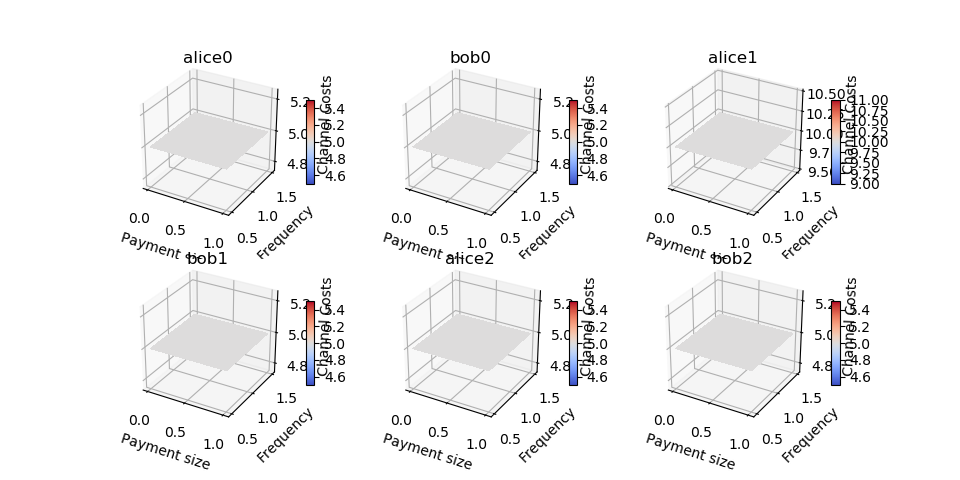
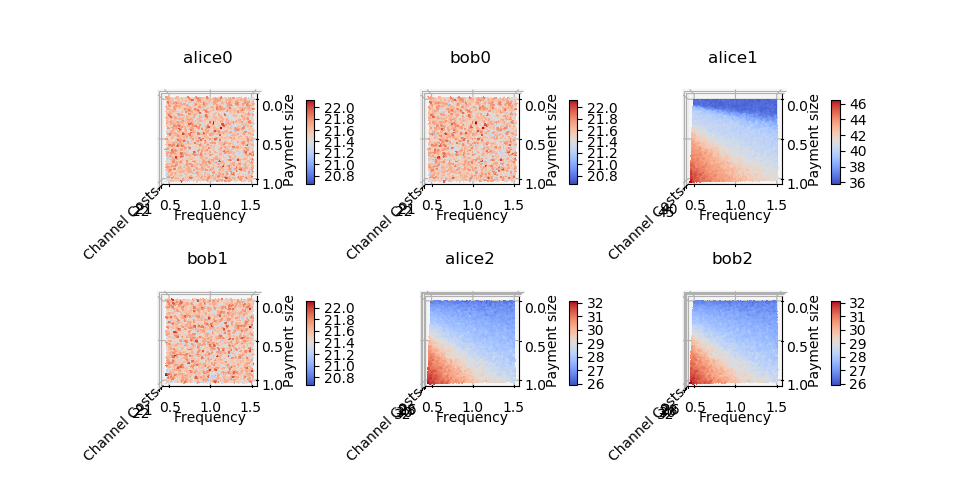
freq not fixed. 3d graph trying different params

diff --git a/3DonPF.py b/3DonPF.py
@@ -90,7 +90,7 @@ def transform(points):
 
 num_trial = 10
 
-time = 2
+time = 50
 
 givenP = 0.5
 
@@ -147,6 +147,7 @@ def runWithPayment(time):
     #         # alice2         costs[4] 
     #         # bob2           costs[5] 
 
+    # print(costs)
     maxFee = chargeFee(costs[2], costs[0])
     
     # aliceAfter_max = payFee(alice0, maxFee)
@@ -159,8 +160,8 @@ def runWithPayment(time):
     Z = np.array(maxFee)
     U = np.array(minFee)
 
-    print(maxFee)
-    print(minFee)
+    # print(maxFee)
+    # print(minFee)
 
     # returns a list of (ps, fs, pt)
     inter = getIntersections(maxFee, minFee, ps, fs)
@@ -185,6 +186,8 @@ def runWithPayment(time):
         ax.set_ylabel('Frequency')
         ax.set_zlabel("Channel Costs")
         ax.set_title(titles_users[i])
+        ax.view_init(azim=0, elev=90)
+
         Z = np.array(costs[i])
         
         surf = ax.plot_surface(X, Y, Z, rstride=1, cstride=1, cmap=cm.coolwarm,
@@ -192,27 +195,36 @@ def runWithPayment(time):
         fig.colorbar(surf, shrink=0.5, aspect=10)
     fig.savefig('3node_pf_users.png')
 
+
+    fig2 = plt.figure(figsize=plt.figaspect(0.5))
     for i in range(0, 2):
-        ax = fig.add_subplot(plotsize, 2, i+1, projection='3d')
+        ax = fig2.add_subplot(plotsize, 2, i+1, projection='3d')
         ax.set_xlabel('Payment size')
         ax.set_ylabel('Frequency')
         ax.set_zlabel("Fee Bound")
         ax.set_title(titles[i])
+        ax.view_init(azim=0, elev=90)        
         
         surf = ax.plot_surface(X, Y, Zs[i], rstride=1, cstride=1, cmap=cm.coolwarm,
                            linewidth=0, antialiased=False)
-        fig.colorbar(surf, shrink=0.5, aspect=10)
+        fig2.colorbar(surf, shrink=0.5, aspect=10)
 
+    fig2.savefig('3node_pf.png')
+
+
+    fig3 = plt.figure(figsize=plt.figaspect(0.5))
                         
     if (len(inter) != 0):
-        ax = fig.add_subplot(plotsize, 2, 3, projection='3d')
+        ax = fig3.add_subplot(plotsize, 2, 3, projection='3d')
         ax.set_xlabel('Payment size')
         ax.set_ylabel('Frequency')
         ax.set_zlabel("Fee Bound")
         ax.set_title("Intersection points")
+        ax.view_init(azim=0, elev=90)
+
         ax.scatter(inter[0], inter[1], inter[2], marker='o')
 
-    fig.savefig('3node_pf.png')
+    fig3.savefig('3node_pf_inter.png')
 
 
 ################ Call #####################

diff --git a/onFreq.py b/onFreq.py
@@ -77,17 +77,6 @@ def getIntersections(list1, list2, ps):
 
     return points
 
-def transform(points):
-    xs = []
-    ys = []
-
-    for i in points:
-        xs.append(i[0])
-        ys.append(i[1])
-
-    return (xs, ys)
-
-
 def getIntercepts(list, ps):
     points = []
 
@@ -122,8 +111,8 @@ def getFees(ps, f, time):
 ############# Main functions #####################
 
 def runWithFreq(time):
-    fs = [x* 1.0 /100 for x in range(150, 152)]
-    print(fs)
+    fs = [x* 2.0 /1 for x in range(1, 50)]
+    print("fs %f to %f" %(fs[0], fs[-1]))
 
     for i in range(len(fs)):
         # trial

diff --git a/feeCharged.py b/feeCharged.py
@@ -120,7 +120,7 @@ freqSigma = 0.0001
 ############# Main functions #####################
 
 def runWithPayment(time):
-    ps = [x* 1.0 /100 for x in range(50, 52)]
+    ps = [x* 2.0 /10 for x in range(100, 200)]
 
     for i in range(len(ps)):
         # trial
